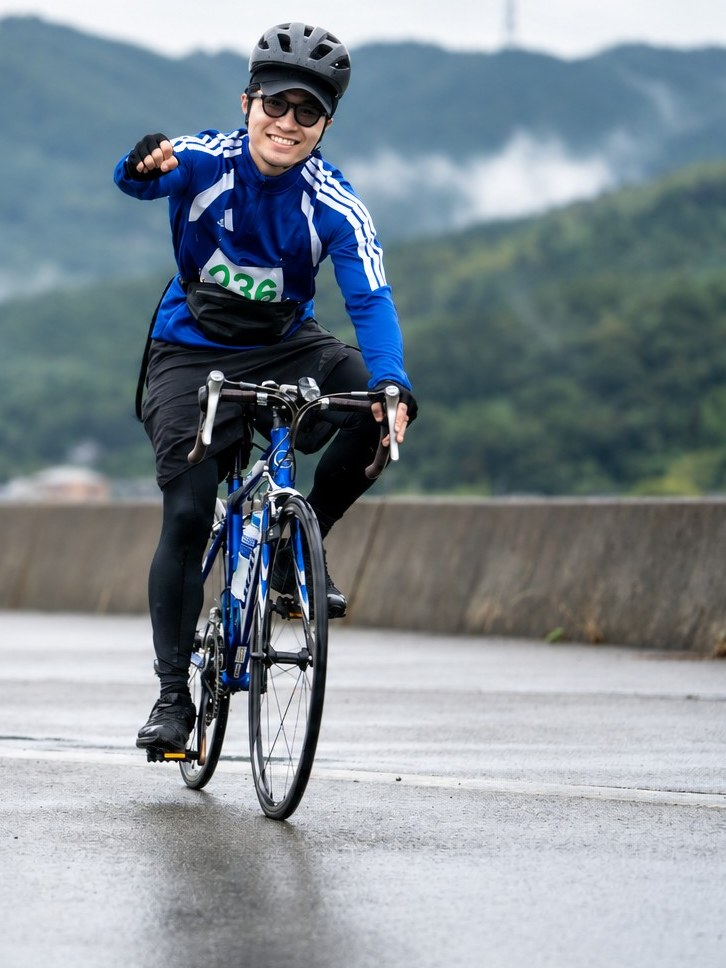
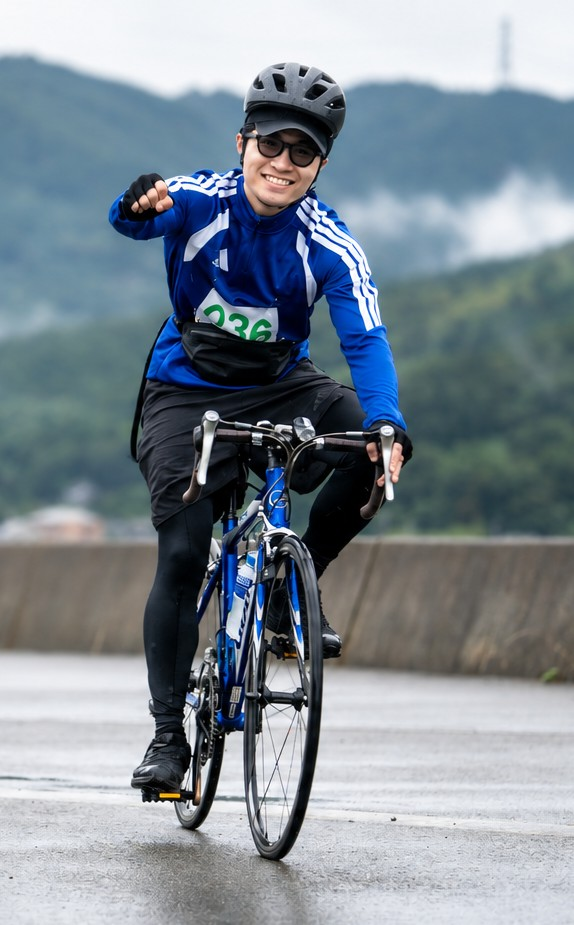
Swap in new greeting and cycling photos; tighten greeting and align lists
- Greeting photo cropped from the Sept 2026 general-question photo
- Profile photo replaced with the pre-cropped Tour de Hijikawa photo
- Reduce greeting line-height and paragraph spacing
- Hobbies and qualifications both use a fixed two-column list
- Break Japanese lines at phrase boundaries where supported

Claude-Session: https://claude.ai/code/session_01ACicwXpsh3J5NmLsPV9VBN

diff --git a/src/components/sections/MessageSection.tsx b/src/components/sections/MessageSection.tsx
@@ -21,8 +21,8 @@ export default function MessageSection() {
             <Image
               src={photo}
               alt={photoAlt ?? ''}
-              width={600}
-              height={720}
+              width={700}
+              height={840}
               className="aspect-[5/6] w-full object-cover"
             />
           </div>
@@ -31,12 +31,12 @@ export default function MessageSection() {
         <div>
           <SectionHeading en="MESSAGE">{title}</SectionHeading>
 
-          <div className="space-y-7 text-base leading-[2.1] md:mt-12">
+          <div className="space-y-5 text-base leading-[1.9] md:mt-10">
             {paragraphs.map((p, i) =>
               p.emphasis ? (
                 <p
                   key={i}
-                  className="py-3 font-display text-balance [word-break:auto-phrase] text-[1.375rem] font-medium leading-[1.9] tracking-[0.1em] text-brand md:text-2xl md:leading-[1.9]"
+                  className="py-2 font-display text-balance [word-break:auto-phrase] text-[1.375rem] font-medium leading-[1.75] tracking-[0.1em] text-brand md:text-2xl md:leading-[1.75]"
                 >
                   {p.text}
                 </p>
@@ -46,7 +46,7 @@ export default function MessageSection() {
             )}
           </div>
 
-          <p className="mt-12 flex items-baseline justify-end gap-5">
+          <p className="mt-10 flex items-baseline justify-end gap-5">
             <span className="text-[0.9375rem] tracking-[0.16em] text-sub">{signatureTitle}</span>
             <span className="font-signature text-[2rem] leading-none tracking-[0.12em] text-ink">
               {signatureName}

diff --git a/src/content/site.ts b/src/content/site.ts
@@ -157,7 +157,7 @@ export const siteConfig: SiteConfig = {
     signatureTitle: "大洲市議会議員",
     signatureName: "菊地 謙太",
     photo: "/images/profile/council.jpg",
-    photoAlt: "大洲市議会の本会議で登壇する菊地けんた",
+    photoAlt: "大洲市議会の一般質問で登壇する菊地けんた",
   },
   brand: {
     // 画像ファイルを配置したら下の行のコメントを外してパスを設定してください
@@ -206,7 +206,7 @@ export const siteConfig: SiteConfig = {
     hobbies: ["フルマラソン", "カヌー", "筋トレ", "居酒屋巡り", "読書", "旅行"],
     // hobbiesIcon: "/images/profile/hobbies.png",
     snapshot: "/images/profile/cycling.jpg",
-    snapshotAlt: "市内のサイクリングイベントで自転車に乗る菊地けんた",
+    snapshotAlt: "ツール・ド・ひじかわで自転車に乗る菊地けんた",
   },
   policies: [
     {

diff --git a/src/components/ui/FeatureCard.tsx b/src/components/ui/FeatureCard.tsx
@@ -6,9 +6,10 @@ type Props = {
 
 export default function FeatureCard({ title, items }: Props) {
   return (
-    <div className="grid grid-cols-1 gap-x-8 gap-y-1 border-b border-line py-5 sm:grid-cols-[8rem_minmax(0,1fr)]">
+    <div className="border-b border-line py-5">
       <h3 className="text-[0.9375rem] text-brand">{title}</h3>
-      <ul className="flex flex-wrap gap-x-5 gap-y-1 text-base">
+      {/* 項目数にかかわらず常に 2 列で揃える */}
+      <ul className="mt-2 grid grid-cols-2 gap-x-6 gap-y-1 text-base">
         {items.map((item, i) => (
           <li key={i}>{item}</li>
         ))}

diff --git a/src/components/sections/ProfileSection.tsx b/src/components/sections/ProfileSection.tsx
@@ -31,9 +31,9 @@ export default function ProfileSection() {
             <Image
               src={snapshot}
               alt={snapshotAlt ?? ''}
-              width={726}
-              height={968}
-              className="aspect-[3/4] w-full max-w-xs object-cover lg:max-w-none"
+              width={574}
+              height={925}
+              className="h-auto w-full max-w-[16rem] lg:max-w-none"
             />
           )}
         </div>

diff --git a/src/app/globals.css b/src/app/globals.css
@@ -21,6 +21,10 @@ body {
   letter-spacing: 0.04em;
   line-height: 1.9;
   -webkit-font-smoothing: antialiased;
+  /* 日本語の改行を文節単位にし、行末に1〜2文字だけ残るのを避ける（対応ブラウザのみ） */
+  word-break: auto-phrase;
+  line-break: strict;
+  text-wrap: pretty;
 }
 
 /* ページ内リンクで固定ヘッダーに見出しが隠れないようにする */

diff --git a/docs/assets.md b/docs/assets.md
@@ -28,11 +28,11 @@ public/
     │   └── ogp.png          ← OGP 画像（SNS シェア用）
     ├── profile/
     │   ├── profile.jpg      ← プロフィール写真（ファーストビュー）
-    │   ├── council.jpg      ← ごあいさつ欄の写真（photos/council.jpg を切り出したもの）
-    │   └── cycling.jpg      ← プロフィール欄の写真（photos/cycling.jpg を切り出したもの）
+    │   ├── council.jpg      ← ごあいさつ欄の写真（photos/2026年9月一般質問.jpg を切り出したもの）
+    │   └── cycling.jpg      ← プロフィール欄の写真（photos/ツールドひじかわ.jpg と同じもの）
     ├── photos/              ← 写真の原本置き場（サイトでは直接使用しない）
-    │   ├── council.jpg
-    │   ├── cycling.jpg
+    │   ├── 2026年9月一般質問.jpg
+    │   ├── ツールドひじかわ.jpg
     │   ├── marathon.jpg
     │   └── report-meeting.jpg
     ├── policy/
